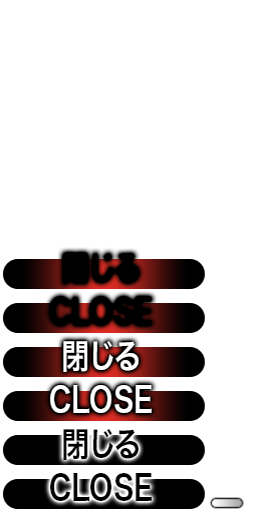
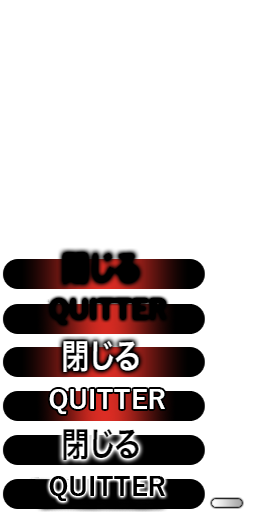
Add french images

diff --git a/README.md b/README.md
@@ -4,6 +4,10 @@ Scripts for easier editing of Unity assets for Higurashi.
 
 The main rust script will generate a new emip file, apply it to the assets and pack the assets into 7zip archive we need for a release.
 
+## French version notes
+
+The `s_jump_back.png` image is different to the one that we normally use in our mod (it is a picture with logo, instead of two red stripes with logo). Also, different images are used for Question and Answer arcs (our mod uses the same `s_jump_back.png` for all chapters)
+
 ## Documentation Notes
 
 Please note that documentation is in two places:
